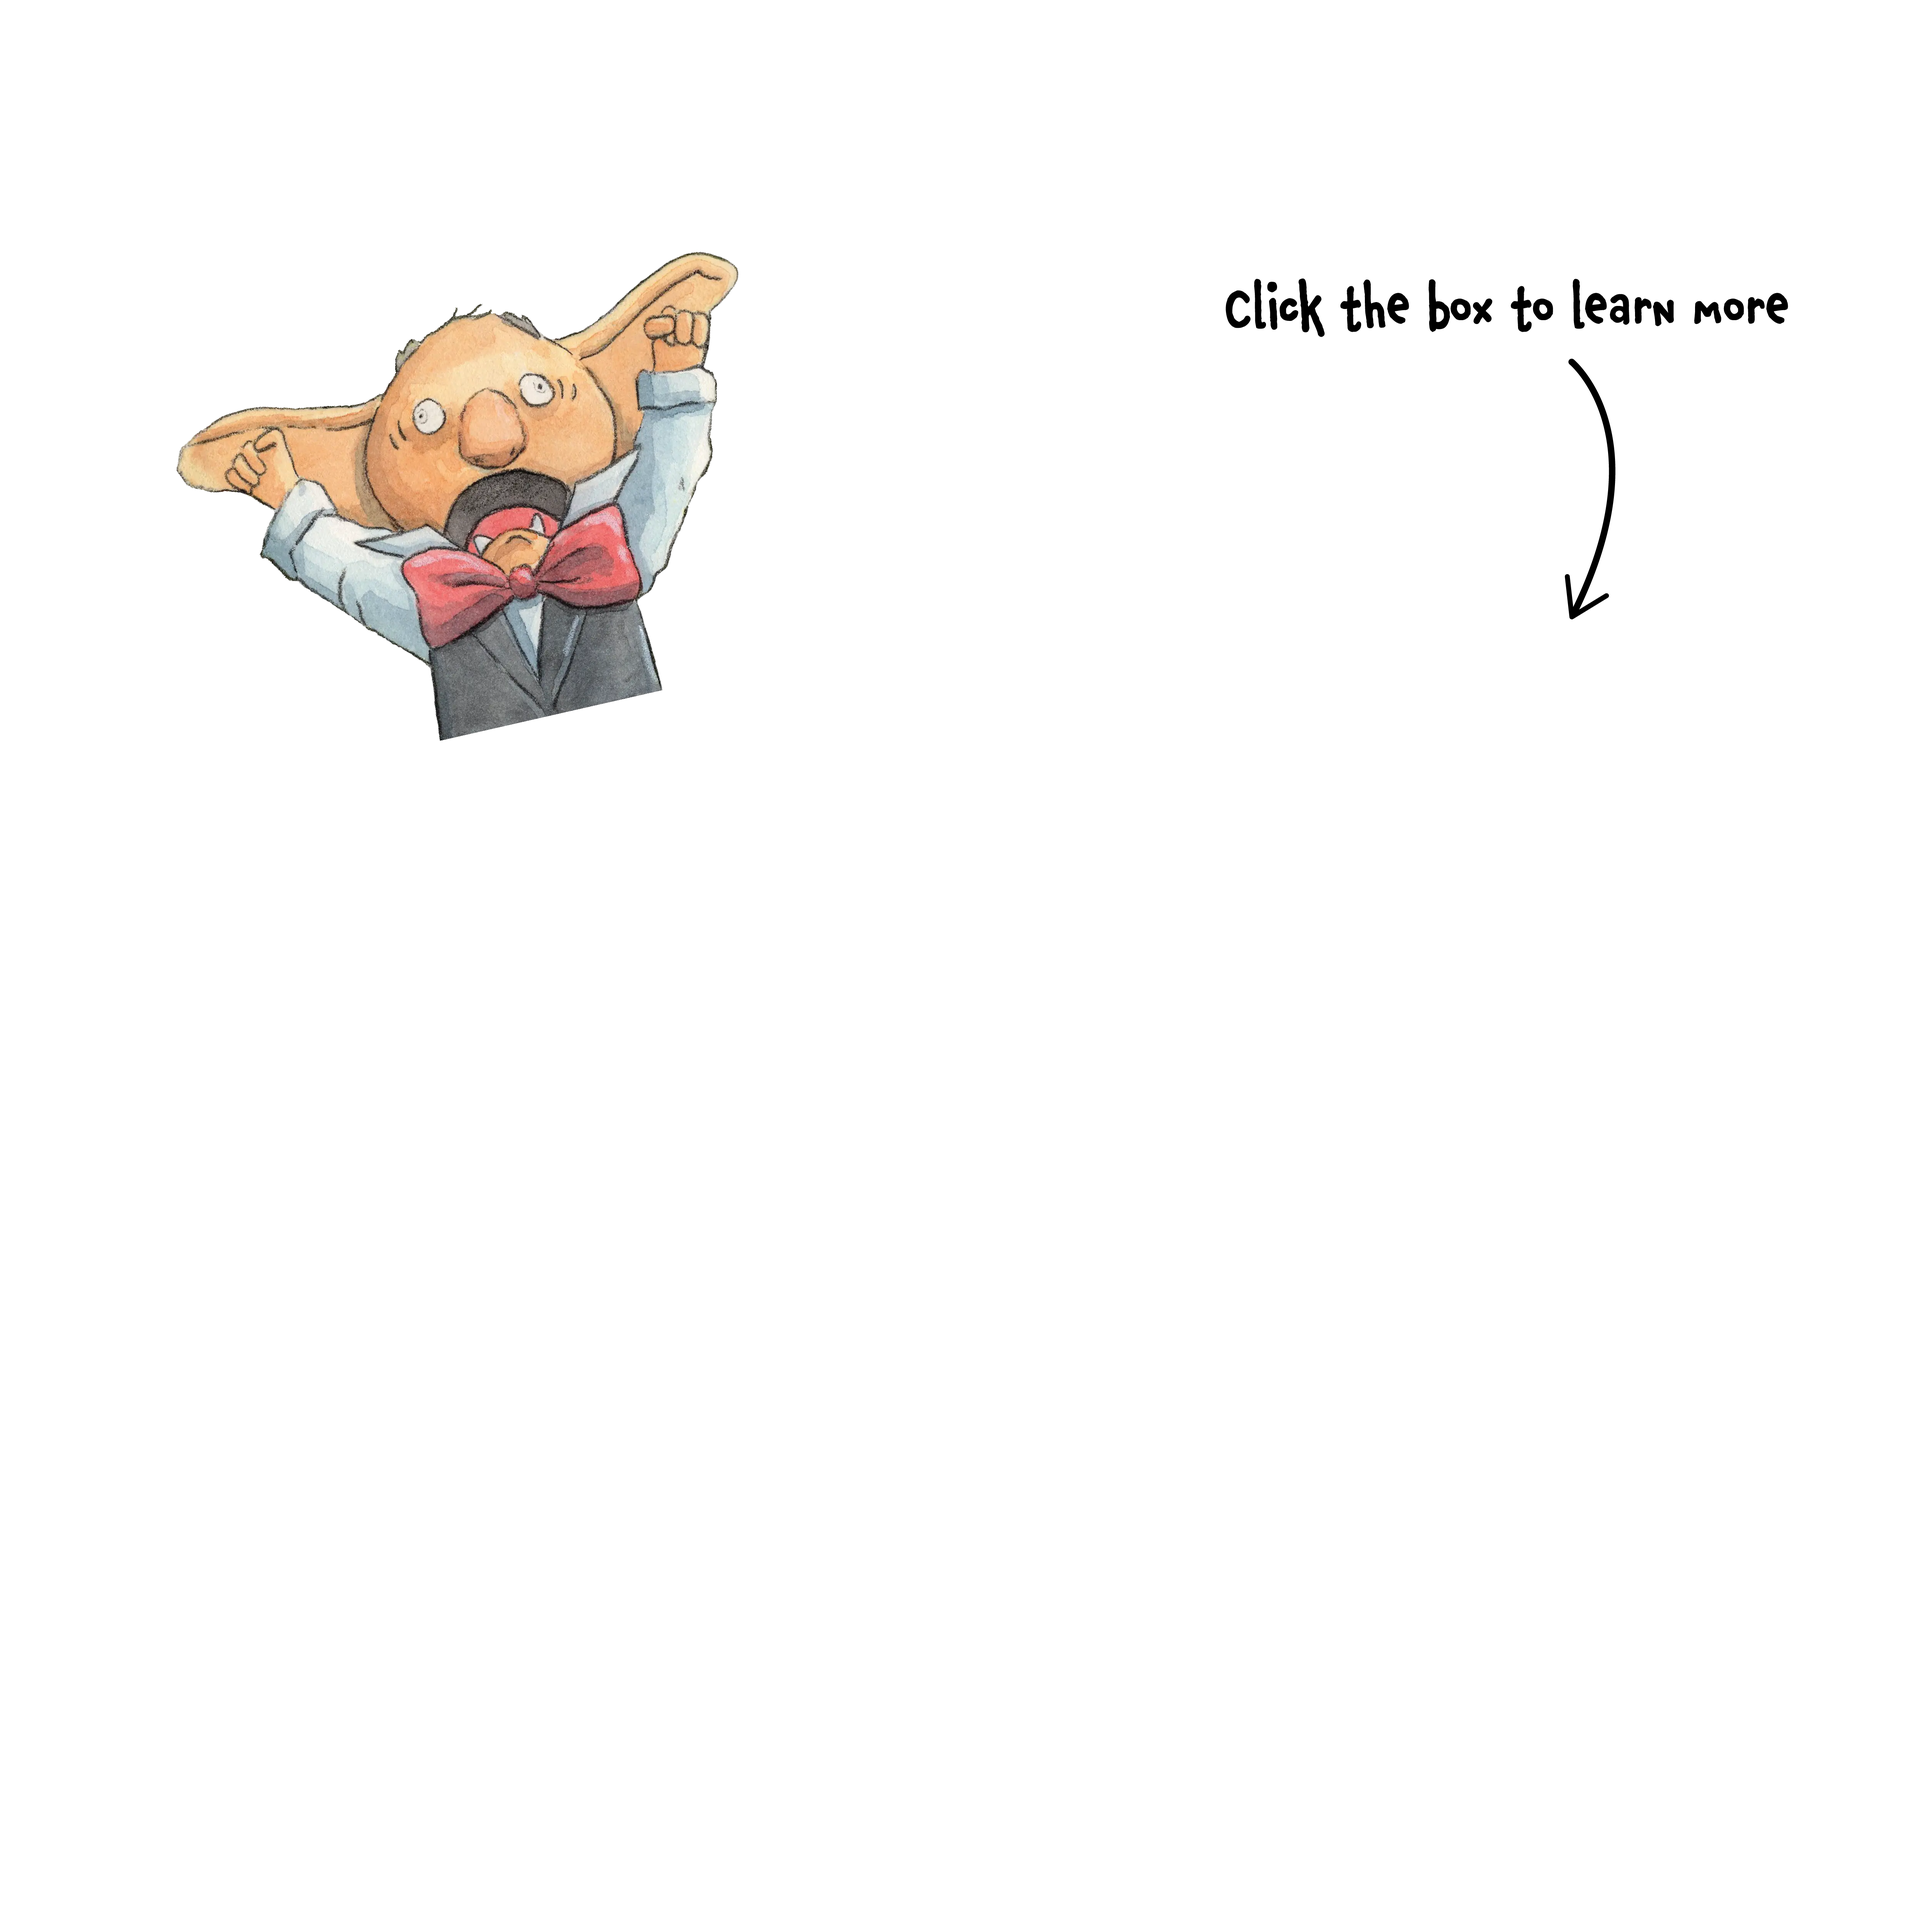
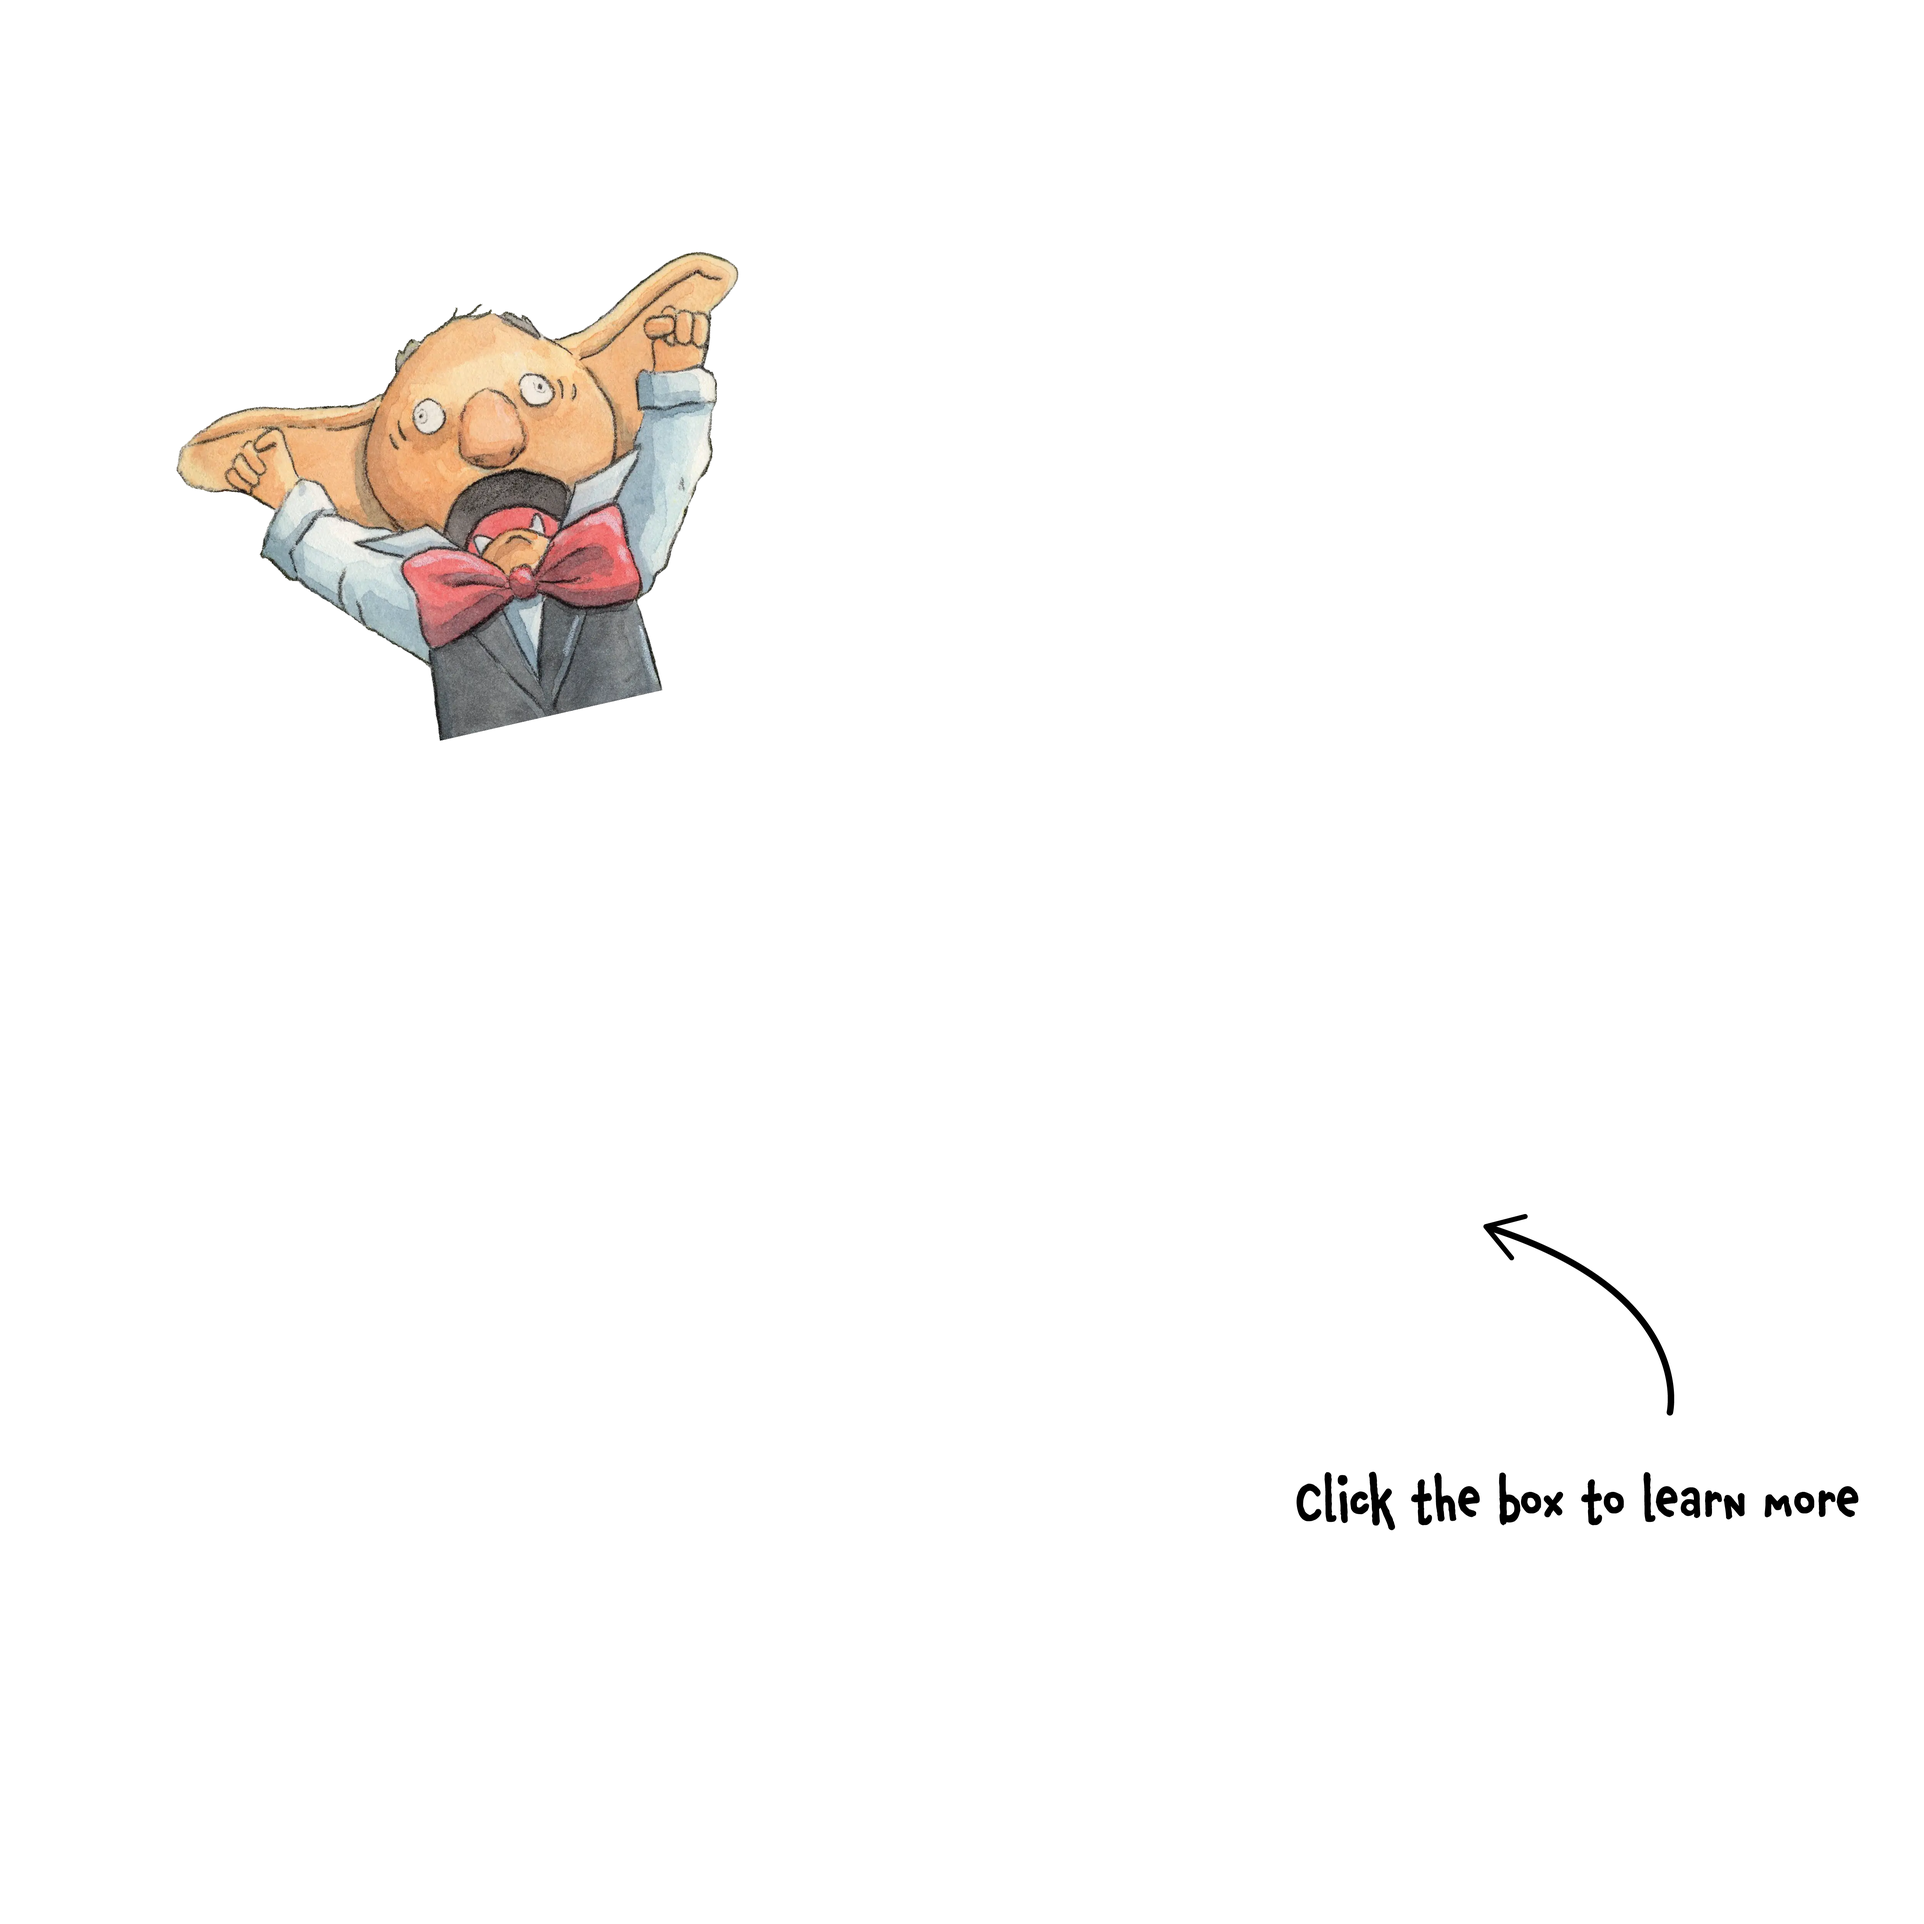
added fukidashi

diff --git a/src/components/Home/HeroImageSection.js b/src/components/Home/HeroImageSection.js
@@ -2,19 +2,15 @@ import PropTypes from "prop-types";
 import DefaultButton from "../utils/DefaultButton.js";
 import landingPageStyles from "../../css/landingPage.module.css";
 import useWindowDimensions from "../utils/useWindowDimensions.js";
-import useWindowScroll from "../utils/useWindowScroll.js";
+import { GsapFadeScrub } from "../utils/useGsap.js";
 
 export default function HeroImageSection({
   videoModalVisible,
   playVideo,
-  boxArtOverride,
   titleOverride,
 }) {
   const { isDesktop } = useWindowDimensions();
-  const scrollPosition = useWindowScroll();
-  const isPageAtTop = scrollPosition === 0;
 
-  const titleSrc = titleOverride ?? "/images/title";
   const imageSrcResponsive = isDesktop
     ? `/images/click_to_learn_desktop`
     : "/images/click_to_learn_mobile";
@@ -31,40 +27,47 @@ export default function HeroImageSection({
       <div
         className={`${landingPageStyles.screenHeight} ${landingPageStyles.heroImagesWrapper}`}
       >
-        <img
-          alt="Page title"
-          src={`${titleSrc}.webp`}
-          draggable={false}
-          className={`${landingPageStyles.heroTitle} noselect`}
-        />
-        <img
-          alt="Box and components of the card game."
-          src={`${imageSrcResponsive}.webp`}
-          draggable={false}
-          className={`${landingPageStyles.heroImage} noselect openYouTubeModalButton`}
-          onClick={playVideo}
-        />
-        <img
-          alt="Click the box to learn more!"
-          src={boxArtOverride ?? "/images/box_transparent.webp"}
-          draggable={false}
-          className={`${landingPageStyles.heroImage} noselect openYouTubeModalButton ${landingPageStyles.monsterBurstAnimation}`}
-          onClick={playVideo}
-        />
+        <div className={landingPageStyles.heroTitleWrapper}>
+          <h2 className={landingPageStyles.heroTitle}>
+            {titleOverride ?? "A party game where fantasy meets reality TV!"}
+          </h2>
+          <img
+            alt="Page title fukidashi"
+            src="images/fukidashi.webp"
+            draggable={false}
+            className={`${landingPageStyles.fukidashi} noselect`}
+          />
+        </div>
+        <div className={landingPageStyles.heroImageWrapper}>
+          <img
+            alt="Box and components of the card game."
+            src={`${imageSrcResponsive}.webp`}
+            draggable={false}
+            className={`${landingPageStyles.heroImage} noselect openYouTubeModalButton`}
+            onClick={playVideo}
+          />
+          <img
+            alt="Click the box to learn more!"
+            src="/images/box_transparent.webp"
+            draggable={false}
+            className={`${landingPageStyles.heroImage} noselect openYouTubeModalButton ${landingPageStyles.monsterBurstAnimation}`}
+            onClick={playVideo}
+          />
+        </div>
         <div
           style={{
             display: videoModalVisible ? "none" : "flex",
           }}
           className={landingPageStyles.heroBottomWrapper}
         >
-          {isPageAtTop && (
+          <GsapFadeScrub fadeOut>
             <img
               alt="or just keep scrolling"
               src="/images/just_keep_scrolling.webp"
               draggable={false}
               className={`${landingPageStyles.justKeepScrolling} noselect`}
             />
-          )}
+          </GsapFadeScrub>
           <DefaultButton
             shadowless
             animated
@@ -83,6 +86,5 @@ export default function HeroImageSection({
 HeroImageSection.propTypes = {
   videoModalVisible: PropTypes.bool.isRequired,
   playVideo: PropTypes.func.isRequired,
-  boxArtOverride: PropTypes.string,
-  textImageOverride: PropTypes.string,
+  titleOverride: PropTypes.string,
 };

diff --git a/src/css/landingPage.module.css b/src/css/landingPage.module.css
@@ -185,65 +185,85 @@
   transform: translate(-50%, -50%);
 }
 
-@media only screen and (max-height: 400px) {
-  .heroImage {
-    max-height: 300px;
-    object-fit: contain;
+.heroTitleWrapper {
+  width: 100%;
+  display: flex;
+  flex-direction: column;
+  align-items: center;
+  justify-content: center;
+}
+
+@media only screen and (max-width: 450px) {
+  .fukidashi {
+    width: 110svw;
+    height: 20svh;
   }
   .heroTitle {
-    margin-top: 2em;
-    width: 500px;
+    height: 25svh;
   }
 }
 
-@media only screen and (max-height: 750px) and (min-height: 400px) {
-  .heroImage {
-    max-height: 400px;
-    object-fit: contain;
+@media only screen and (max-width: 600px) and (min-width: 450px) {
+  .fukidashi {
+    width: 110svw;
+    height: 15svh;
   }
   .heroTitle {
-    margin-top: 3em;
-    width: 550px;
+    height: 20svh;
   }
 }
 
-@media only screen and (max-height: 875px) and (min-height: 750px) {
-  .heroImage {
-    max-height: 550px;
-    object-fit: contain;
+@media only screen and (max-width: 900px) and (min-width: 600px) {
+  .fukidashi {
+    width: 110svw;
+    height: 10svh;
   }
   .heroTitle {
-    margin-top: 4em;
-    width: 600px;
+    height: 15svh;
   }
 }
 
-@media only screen and (max-height: 950px) and (min-height: 875px) {
-  .heroImage {
-    max-height: 650px;
-    object-fit: contain;
-  }
+.heroTitle {
+  padding: 1em;
+  margin: 0;
+  display: flex;
+  justify-content: center;
+  width: calc(100% - 2em);
+}
+
+@media only screen and (max-width: 900px) {
   .heroTitle {
-    margin-top: 5em;
-    width: 650px;
+    position: absolute;
+    transform: translateY(-25%);
+    align-items: flex-end;
+    top: 0;
+    background-color: #fff;
+    text-wrap: balance;
+  }
+  .heroTitleWrapper {
+    margin-top: 12svh;
   }
 }
 
-@media only screen and (max-height: 1250px) and (min-height: 950px) {
-  .heroImage {
-    max-height: 750px;
-    object-fit: contain;
+@media only screen and (min-width: 900px) {
+  .heroTitleWrapper {
+    max-width: 500px;
+    position: relative;
+    margin-top: 8svh;
+  }
+  .fukidashi {
+    max-width: 500px;
+    position: absolute;
+    top: 50%;
+    transform: translateY(-50%);
+    z-index: 25;
   }
   .heroTitle {
-    margin-top: 6em;
-    width: 700px;
-  }
-}
-
-@media only screen and (min-height: 1250px) {
-  .heroTitle {
-    margin-top: 8em;
-    width: 750px;
+    max-width: 500px;
+    z-index: 26;
+    transform: translateY(-30%);
+    align-items: center;
+    font-size: 1.75em;
   }
 }
 
@@ -282,12 +302,6 @@
   max-width: 150px;
 }
 
-@media only screen and (max-height: 600px) {
-  .heroTitle {
-    margin-top: 2em;
-  }
-}
-
 /* mobile */
 @media only screen and (max-width: 900px) {
   .heroBottomWrapper {
@@ -305,10 +319,6 @@
     margin-top: 4em;
     font-size: 1.25em;
   }
-  .heroTitle {
-    margin-top: 4em;
-    width: calc(100% - 2em);
-  }
 }
 
 @media only screen and (max-height: 650px) {
@@ -316,12 +326,9 @@
     display: none;
   }
   .heroTitle {
-    max-width: 400px;
+    display: none;
   }
-}
-
-@media only screen and (max-height: 450px) {
-  .heroTitle {
+  .fukidashi {
     display: none;
   }
 }

diff --git a/src/components/Navbar/Navbar.js b/src/components/Navbar/Navbar.js
@@ -74,7 +74,9 @@ export const NavbarMain = ({ videoModalVisible }) => {
           scrubStartCenter
           scrub
           fadeIn
-          className="fixedButtonsWrapper noselect"
+          className={`fixedButtonsWrapper noselect ${
+            isLandingPageAtTop ? "isLandingPageAtTop" : ""
+          }`}
         >
           <NavLink to="/" className="navbarFloatLeft"></NavLink>
           <div className="navbarFloatRight">
@@ -91,15 +93,14 @@ export const NavbarMain = ({ videoModalVisible }) => {
             )}
             {showButton && !isLandingPageAtTop && (
               <DefaultButton
-                className="free-pin-btn topNavbarButton"
+                className="free-pin-btn topNavbarButton is-blue"
                 onClick={openPopup}
                 text="Get a free pin!"
                 shadowless
               />
             )}
             <button
-              id="navbarOpenClose"
-              className={`hamburger hamburger--slider ${isVisibleClass}`}
+              className={`navbarOpenClose hamburger hamburger--slider noselect`}
               onClick={toggleNav}
               type="button"
               aria-label="Toggle navigation"
@@ -112,6 +113,16 @@ export const NavbarMain = ({ videoModalVisible }) => {
         </GsapFadeScrub>
 
         <div className={`navbarMain ${isVisibleClass}`}>
+          <button
+            className={`navbarOpenClose hamburger hamburger--slider noselect ${isVisibleClass}`}
+            onClick={toggleNav}
+            type="button"
+            aria-label="Toggle navigation"
+          >
+            <span className="hamburger-box">
+              <span className="hamburger-inner"></span>
+            </span>
+          </button>
           <div className="navbarChildrenWrapper">
             <div
               className={`navbarChildren navbarLeftWrapper ${mobileShowLeftClass}`}

diff --git a/src/css/navbar.css b/src/css/navbar.css
@@ -6,7 +6,7 @@
   display: flex;
   justify-content: space-between;
   align-items: center;
-  z-index: 99999;
+  z-index: 99997;
   width: 100%;
 }
 
@@ -42,7 +42,7 @@
   -o-filter: drop-shadow(2px 2px 2px rgba(0, 0, 0, 0.25));
 }
 
-#navbarOpenClose {
+.navbarOpenClose {
   height: 42px;
   width: 58px;
   cursor: pointer;
@@ -58,8 +58,13 @@
   -o-filter: drop-shadow(2px 2px 2px rgba(0, 0, 0, 0.25));
 }
 
-.navbarClass:not(.is-active) #navbarOpenClose {
+.navbarClass:not(.is-active) .navbarOpenClose {
   border-radius: 4px;
+}
+
+.navbarMain .navbarOpenClose {
+  position: fixed;
+  right: 0;
 }
 
 /* #endregion
@@ -120,6 +125,9 @@
 }
 
 @media only screen and (max-width: 900px) {
+  .fixedButtonsWrapper:not(.isLandingPageAtTop) {
+    background-color: #fff;
+  }
   .navbarBuyButton {
     position: fixed;
     width: calc(100% - 2em) !important;

diff --git a/src/components/Home/TTRPGPage.js b/src/components/Home/TTRPGPage.js
@@ -57,7 +57,7 @@ export default function TTRPGPage({ videoModalVisible, setVideoModalVisible }) {
       <HeroImageSection
         videoModalVisible={videoModalVisible}
         playVideo={playVideo}
-        titleOverride="/images/title_ttrpg"
+        titleOverride={"An entire tabletop RPG in just 12 minutes!"}
       />
 
       <DescriptionContainer
